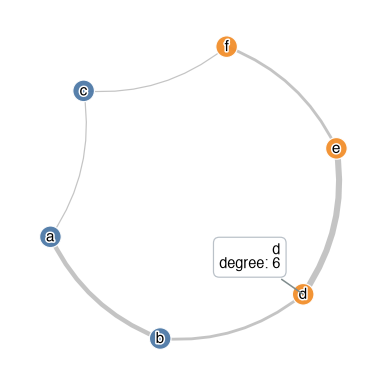
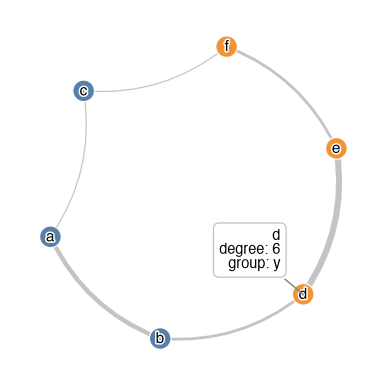
feat(network): hover nodes report group, size, and in/out degree when directed
A node's group is what its color encodes and its size what its marker
area encodes, so both ride along in the datum when given; a directed
graph splits the degree into in and out, the one thing direction is
about (ADR 0031).

Changed region(s): [[0.5285, 0.5596, 0.7772, 0.7461]]

diff --git a/datachart/utils/_internal/layers.py b/datachart/utils/_internal/layers.py
@@ -4258,14 +4258,27 @@ class NetworkLayer(Layer):
         self.drawn_edges = drawn
         self.pairs = [(index[e["source"]], index[e["target"]]) for e in drawn]
         self.weights = [record.get("weight") for record in drawn]
-        # a node's degree: its edge count, or their weight sum once any edge
-        # carries a weight (an unweighted edge then counts one)
+        # a node's degree (in/out when directed) counts its edges, or sums
+        # their weights once any edge has one (an unweighted edge counts one)
         weighted = any(w is not None for w in self.weights)
-        self.degrees = [0] * len(self.nodes)
+        n = len(self.nodes)
+        incoming, outgoing = [0] * n, [0] * n
         for (i, j), weight in zip(self.pairs, self.weights):
             share = weight if weighted and weight is not None else 1
-            self.degrees[i] += share
-            self.degrees[j] += share
+            outgoing[i] += share
+            incoming[j] += share
+        # the hover datum per node; group and size ride along when given
+        self.node_datums = []
+        for k, node in enumerate(self.nodes):
+            datum = {"label": node["id"] if not node.get("label") else node["label"]}
+            if self.directed:
+                datum.update({"in": incoming[k], "out": outgoing[k]})
+            else:
+                datum["degree"] = incoming[k] + outgoing[k]
+            for key in ("group", "size"):
+                if node.get(key) is not None:
+                    datum[key] = node[key]
+            self.node_datums.append(datum)
         self.groups = [node.get("group") for node in self.nodes]
         # the clusters behind the nodes: only the grouped layout has any
         self.clusters = []
@@ -4474,13 +4487,7 @@ class NetworkLayer(Layer):
             zorder=3,
             gid="nodes",
         )
-        names = [
-            node["id"] if not node.get("label") else node["label"]
-            for node in self.nodes
-        ]
-        self.register_hover(
-            points, lambda k: {"label": names[k], "degree": self.degrees[k]}
-        )
+        self.register_hover(points, lambda k: self.node_datums[k])
 
         for k, node in enumerate(self.nodes):
             label = node.get("label")

diff --git a/test/test_interactive.py b/test/test_interactive.py
@@ -385,6 +385,26 @@ class TestAggregateLayers:
         assert edges[0](0) == {"label": None, "source": "a", "target": "b", "weight": 2}
         assert node_resolver(0) == {"label": "a", "degree": 5}
         assert node_resolver(1) == {"label": "b", "degree": 2}
+        directed = NetworkChart(
+            data={
+                "nodes": [
+                    {"id": "a", "group": "core", "size": 40},
+                    {"id": "b", "group": "core"},
+                    {"id": "c"},
+                ],
+                "edges": [
+                    {"source": "a", "target": "b", "weight": 2},
+                    {"source": "c", "target": "a", "weight": 3},
+                    {"source": "a", "target": "c", "weight": 1},
+                ],
+            },
+            directed=True,
+        )
+        node = [r for a, r in _targets(directed) if isinstance(a, PathCollection)][0]
+        # a directed node splits its degree; group and size ride along when given
+        assert node(0) == {"label": "a", "in": 3, "out": 3, "group": "core", "size": 40}
+        assert node(1) == {"label": "b", "in": 2, "out": 0, "group": "core"}
+        assert node(2) == {"label": "c", "in": 1, "out": 3}
         unweighted = NetworkChart(
             data={
                 "nodes": [{"id": "a", "label": "Alpha"}, {"id": "b"}, {"id": "c"}],

diff --git a/docs/how-to-guides/utility/interactive.md b/docs/how-to-guides/utility/interactive.md
@@ -64,6 +64,6 @@ Every chart type has hover support. Filled marks — bars, bands, boxes, bodies,
 | [Contour Chart](../charts/contourchart.ipynb) | level line or filled band   | legend label, `level` (a band's two levels)                                | ![A contour chart with a hovered level line](../../assets/imgs/hover-contour.png){ width="300" }    |
 | [Hexbin Chart](../charts/hexbinchart.ipynb)   | hexagon                     | legend label, `x`, `y` (the cell center), `count` (or the reduced `c` under its reducer's name) | ![A hexbin chart with a hovered hexagon](../../assets/imgs/hover-hexbin.png){ width="300" } |
 | [Parallel Coordinates](../charts/parallelcoords.ipynb) | row line, at the nearest axis | the `hue` value (or the legend label), the axis name and the row's value there | ![A parallel coordinates chart with a hovered row](../../assets/imgs/hover-parallelcoords.png){ width="300" } |
-| [Network Chart](../charts/networkchart.ipynb) | node or edge                | node: its label, `degree` (the weight sum when weighted); edge: `source`, `target`, `weight` | ![A network chart with a hovered node](../../assets/imgs/hover-network.png){ width="300" } |
+| [Network Chart](../charts/networkchart.ipynb) | node or edge                | node: its label, `degree` (`in` / `out` when directed, the weight sum when weighted), its `group` and `size` when given; edge: `source`, `target`, `weight` | ![A network chart with a hovered node](../../assets/imgs/hover-network.png){ width="300" } |
 | [Sankey Chart](../charts/sankeychart.ipynb)   | node or link                | node: its name, `flow`; link: `source`, `target`, `flow`                   | ![A sankey chart with a hovered link](../../assets/imgs/hover-sankey.png){ width="300" }            |
 | [Treemap](../charts/treemap.ipynb)            | tile or group band          | its label, `value` (a band's group total)                                  | ![A treemap with a hovered tile](../../assets/imgs/hover-treemap.png){ width="300" }                |

diff --git a/docs/adr/0031-interactive-show-hover-seam.md b/docs/adr/0031-interactive-show-hover-seam.md
@@ -66,7 +66,7 @@ line per field — without knowing chart types.
   | radial line/bar/scatter/histogram | point / wedge | `angle` (category label when categorical), `radius` |
   | sankey               | node / link         | node: `flow`; link: `source`, `target`, `flow`  |
   | treemap              | tile                | `value`                                         |
-  | network              | node / edge         | node: `degree` (weight sum when weighted); edge: `source`, `target`, `weight` |
+  | network              | node / edge         | node: `degree` (`in` / `out` when directed; weight sum when weighted), then `group` and `size` when given; edge: `source`, `target`, `weight` |
 
   Text layers and reference lines decorate and register nothing. Polar axes
   carry no axis labels, so radial fields are shown under their own keys. A
